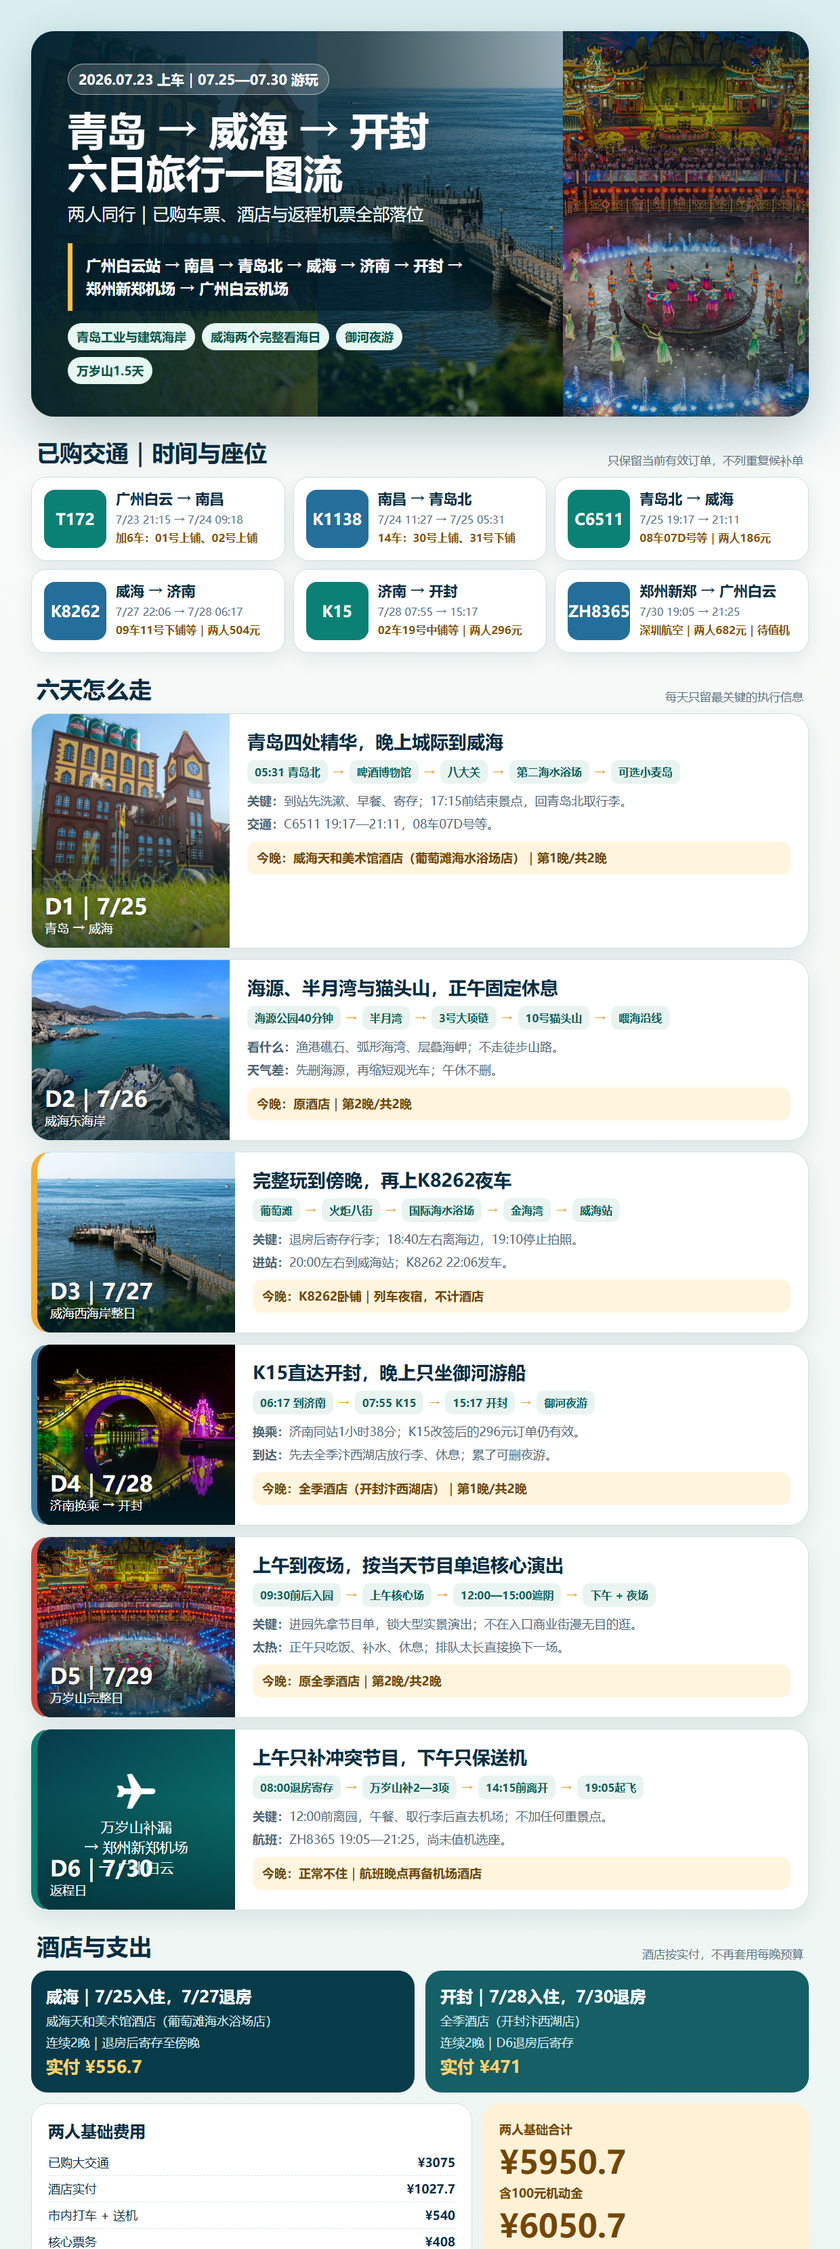
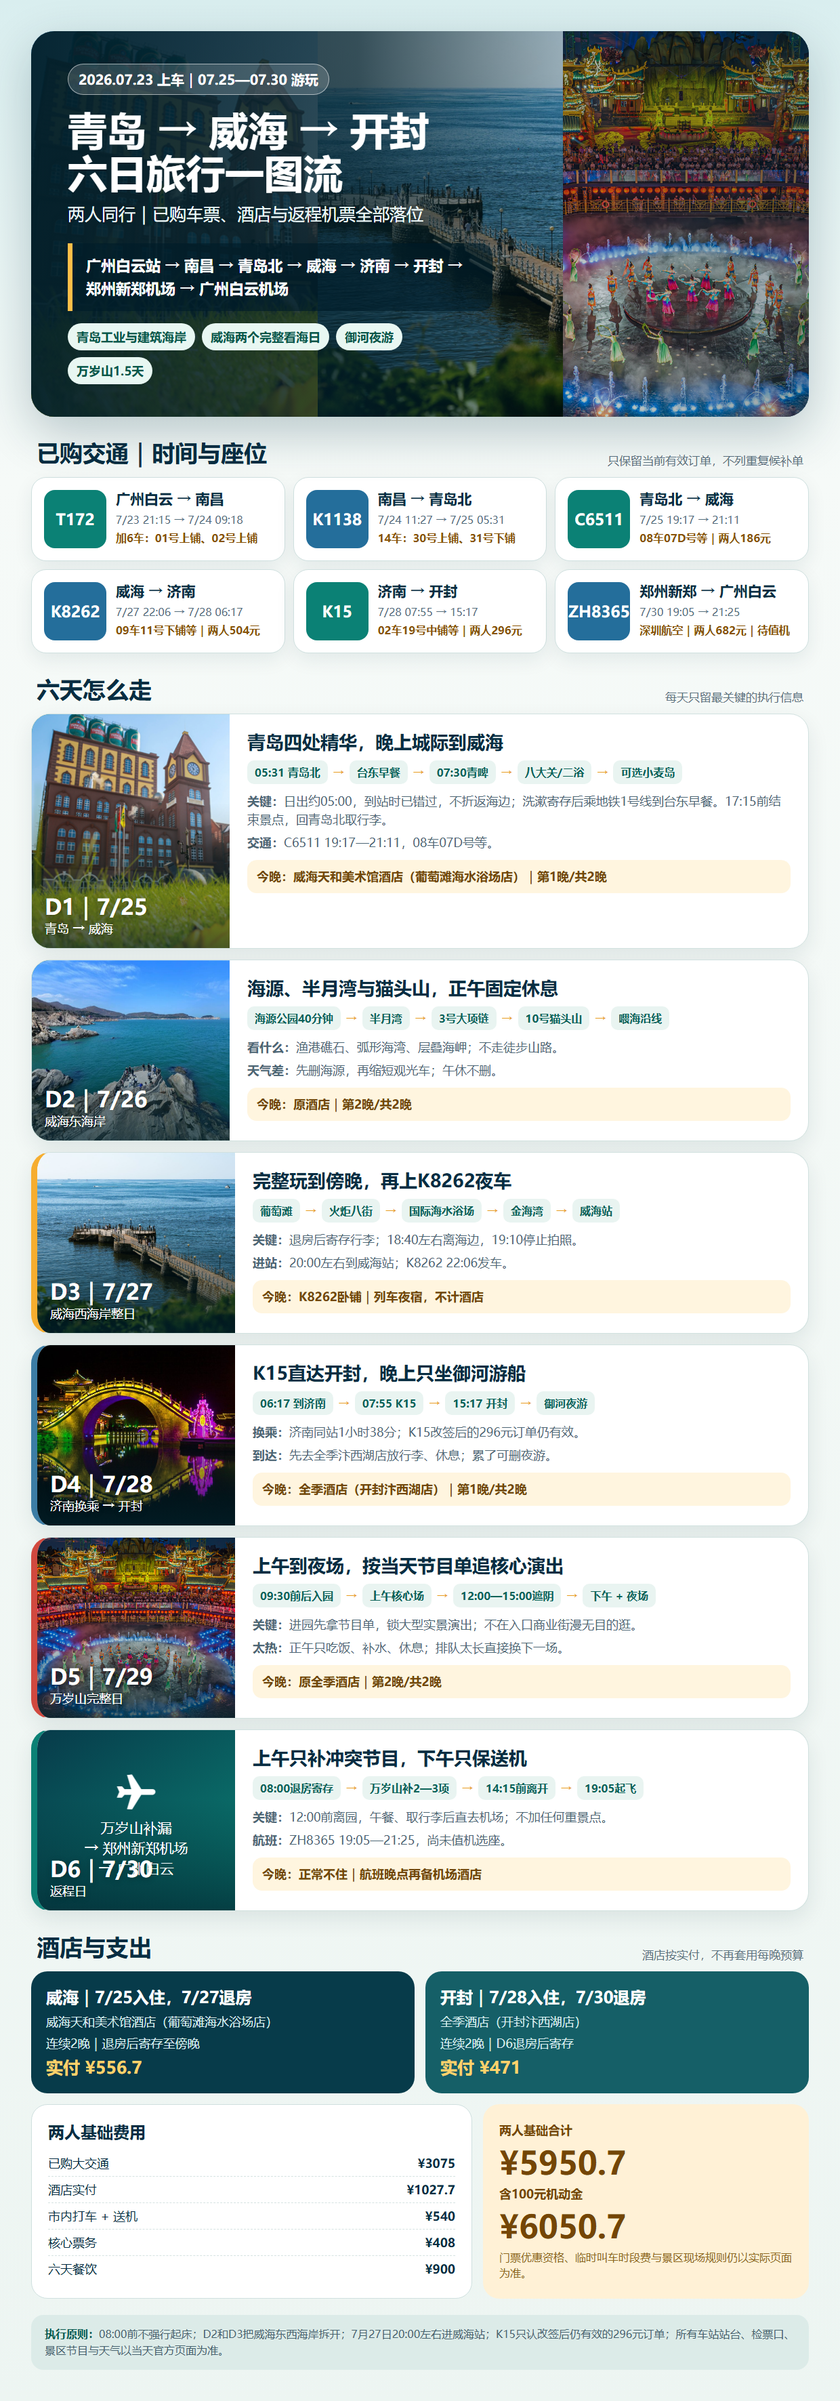
Refine Qingdao arrival and sunrise plan

diff --git a/routes/shandong-kaifeng.html b/routes/shandong-kaifeng.html
@@ -122,25 +122,27 @@
           <h3>D1｜青岛四处精华后，晚上转威海</h3>
           <div class="route-map-viewport" data-mobile-center=".54" tabindex="0" aria-label="青岛高德地图路线图，可左右滑动">
             <div class="amap-route-stage">
-              <img src="../assets/images/maps/qingdao-amap-official-base.png" alt="高德地图青岛北站、啤酒博物馆、八大关、第二海水浴场和小麦岛真实道路底图">
+              <img src="../assets/images/maps/qingdao-amap-official-base.png" alt="高德地图青岛北站、台东、啤酒博物馆、八大关、第二海水浴场和小麦岛真实道路底图">
               <svg class="amap-route-overlay" viewBox="0 0 1920 1080" role="img" aria-label="蓝线为上午青岛路线，橙线为下午和转场路线">
                 <defs>
                   <marker id="arrowQingdaoBlue" markerWidth="34" markerHeight="34" refX="31" refY="17" orient="auto" markerUnits="userSpaceOnUse" viewBox="0 0 34 34"><path d="M0,2 L34,17 L0,32 Z" fill="#196da6"/></marker>
                   <marker id="arrowQingdaoOrange" markerWidth="34" markerHeight="34" refX="31" refY="17" orient="auto" markerUnits="userSpaceOnUse" viewBox="0 0 34 34"><path d="M0,2 L34,17 L0,32 Z" fill="#ee9712"/></marker>
                 </defs>
-                <path class="route-halo" d="M1022 310 Q980 415 955 525 Q1010 555 1044 600 Q1048 614 1060 625"/>
-                <path class="route-line" style="stroke:#196da6" marker-end="url(#arrowQingdaoBlue)" d="M1022 310 Q980 415 955 525 Q1010 555 1044 600 Q1048 614 1060 625"/>
+                <path class="route-halo" d="M1022 310 Q990 410 972 474 Q960 500 955 525 Q1010 555 1044 600 Q1048 614 1060 625"/>
+                <path class="route-line" style="stroke:#196da6" marker-end="url(#arrowQingdaoBlue)" d="M1022 310 Q990 410 972 474 Q960 500 955 525 Q1010 555 1044 600 Q1048 614 1060 625"/>
                 <path class="route-halo" d="M1060 625 Q1100 620 1138 602"/>
                 <path class="route-line orange" marker-end="url(#arrowQingdaoOrange)" d="M1060 625 Q1100 620 1138 602"/>
                 <path class="route-halo dashed" d="M1138 602 Q1110 440 1022 310"/>
                 <path class="route-line orange dashed" marker-end="url(#arrowQingdaoOrange)" d="M1138 602 Q1110 440 1022 310"/>
                 <g class="map-pin hotel" transform="translate(1022 310)"><circle r="29"/><text y="8">01</text></g>
-                <g class="map-pin red" transform="translate(955 525)"><circle r="27"/><text y="8">02</text></g>
-                <g class="map-pin red" transform="translate(1044 600)"><circle r="27"/><text y="8">03</text></g>
-                <g class="map-pin red" transform="translate(1060 625)"><circle r="27"/><text y="8">04</text></g>
-                <g class="map-pin orange" transform="translate(1138 602)"><circle r="27"/><text y="8">05</text></g>
+                <g class="map-pin red" transform="translate(972 474)"><circle r="27"/><text y="8">02</text></g>
+                <g class="map-pin red" transform="translate(955 525)"><circle r="27"/><text y="8">03</text></g>
+                <g class="map-pin red" transform="translate(1044 600)"><circle r="27"/><text y="8">04</text></g>
+                <g class="map-pin red" transform="translate(1060 625)"><circle r="27"/><text y="8">05</text></g>
+                <g class="map-pin orange" transform="translate(1138 602)"><circle r="27"/><text y="8">06</text></g>
                 <g class="map-label-box hotel-label" transform="translate(1048 286)"><rect width="138" height="43" rx="12"/><text x="14" y="28">青岛北站</text></g>
-                <g class="map-label-box" transform="translate(780 488)"><rect width="172" height="43" rx="12"/><text x="14" y="28">啤酒博物馆</text></g>
+                <g class="map-label-box" transform="translate(1000 430)"><rect width="142" height="43" rx="12"/><text x="14" y="28">台东早餐</text></g>
+                <g class="map-label-box" transform="translate(770 500)"><rect width="172" height="43" rx="12"/><text x="14" y="28">啤酒博物馆</text></g>
                 <g class="map-label-box" transform="translate(880 635)"><rect width="132" height="43" rx="12"/><text x="14" y="28">八大关</text></g>
                 <g class="map-label-box" transform="translate(1000 670)"><rect width="184" height="43" rx="12"/><text x="14" y="28">第二海水浴场</text></g>
                 <g class="map-label-box" transform="translate(1165 570)"><rect width="148" height="43" rx="12"/><text x="14" y="28">小麦岛公园</text></g>
@@ -148,8 +150,9 @@
             </div>
           </div>
           <p class="map-swipe-hint">手机提示：地图区域可左右滑动；编号顺序就是当天执行顺序。</p>
-          <div class="map-schedule"><div class="map-schedule-row"><b>D1上午｜蓝色</b><span>01青岛北寄存 → 02啤酒博物馆 → 03八大关 → 04第二海水浴场</span></div><div class="map-schedule-row orange"><b>D1下午｜橙色</b><span>午饭与空调休息 → 05小麦岛 → 返回01青岛北取行李 → 城际到威海</span></div></div>
-          <figcaption>青岛底图于2026年7月17日从高德地图网页实取。路线可行，但D1为较累日：若到站晚于09:00，先删小麦岛；若晚于11:00，只保啤酒博物馆和八大关/二浴，晚间转威海不动。</figcaption>
+          <p><a class="copy-btn" href="../assets/images/maps/qingdao-route-flow-2026-07.png" target="_blank" rel="noopener">打开高清青岛地图流</a></p>
+          <div class="map-schedule"><div class="map-schedule-row"><b>D1上午｜蓝色</b><span>01青岛北洗漱寄存 → 地铁1号线 → 02台东早餐 → 步行 → 03啤酒博物馆 → 04八大关 → 05第二海水浴场</span></div><div class="map-schedule-row orange"><b>D1下午｜橙色</b><span>午饭与空调休息 → 06可选小麦岛 → 返回01青岛北取行李 → C6511到威海</span></div></div>
+          <figcaption>青岛底图于2026年7月17日从高德地图网页实取。7月25日日出约05:00，K1138于05:31才到青岛北，下车后无法看到完整日出，因此不折返海边；空档改为台东早餐，07:30按已购订单入青啤。若列车晚点，先删小麦岛，19:17的C6511不动。</figcaption>
         </figure>
 
         <figure class="card route-map-card">
@@ -255,7 +258,7 @@
     <section id="one-screen">
       <div class="section-title"><h2>30秒看懂｜今天去哪、今晚住哪</h2><p class="lead">疲劳指数：轻松 ⭐｜正常 ⭐⭐｜较累 ⭐⭐⭐。</p></div>
       <div class="day-overview" data-plan-only="a" hidden>
-        <article class="day-tile"><div class="overview-day-no">D1</div><div class="overview-copy"><strong>05:31到青岛 + 晚转威海</strong><p>啤酒博物馆 → 八大关/二浴 → 小麦岛 → C6511</p><div class="overview-meta"><span class="overview-stay">今晚：天和美术馆酒店｜第1晚/共2晚</span><span class="fatigue">较累 ⭐⭐⭐</span><span class="overview-key">关键：19:17青岛北发车</span></div></div></article>
+        <article class="day-tile"><div class="overview-day-no">D1</div><div class="overview-copy"><strong>05:31到青岛 + 晚转威海</strong><p>青岛北寄存 → 台东早餐 → 啤酒博物馆 → 八大关/二浴 → 可选小麦岛 → C6511</p><div class="overview-meta"><span class="overview-stay">今晚：天和美术馆酒店｜第1晚/共2晚</span><span class="fatigue">较累 ⭐⭐⭐</span><span class="overview-key">关键：日出05:00已错过，不追海边</span></div></div></article>
         <article class="day-tile"><div class="overview-day-no">D2</div><div class="overview-copy"><strong>威海东海岸</strong><p>海源 → 半月湾 → 大项链 → 猫头山 → “喂，海！”公园沿线</p><div class="overview-meta"><span class="overview-stay">今晚：天和美术馆酒店｜第2晚/共2晚</span><span class="fatigue">正常 ⭐⭐</span><span class="overview-key">关键：同一趟观光巴士，不额外折返</span></div></div></article>
         <article class="day-tile"><div class="overview-day-no">D3</div><div class="overview-copy"><strong>威海西海岸整日 + 夜车</strong><p>葡萄滩 → 火炬八街 → 国际海水浴场 → 金海湾 → K8262</p><div class="overview-meta"><span class="overview-stay">今晚：K8262软卧｜列车夜宿</span><span class="fatigue">较累 ⭐⭐⭐</span><span class="overview-key">关键：18:40离海边，22:06发车</span></div></div></article>
         <article class="day-tile"><div class="overview-day-no">D4</div><div class="overview-copy"><strong>济南换K15直达开封</strong><p>K8262 → K15 → 全季汴西湖 → 御河夜游</p><div class="overview-meta"><span class="overview-stay">今晚：全季汴西湖｜第1晚/共2晚</span><span class="fatigue">较累 ⭐⭐⭐</span><span class="overview-key">关键：同站换乘1小时38分</span></div></div></article>
@@ -284,7 +287,7 @@
     <section id="quick">
       <div class="section-title"><h2>旅行现场快捷执行卡</h2><p class="lead">路上先看这一组，想看细节再展开当天。</p></div>
       <div class="quick-grid" data-plan-only="a" hidden>
-        <article class="quick-card"><b>D1 青岛四处 + C6511｜较累 ⭐⭐⭐</b><p>05:31到青岛北；17:15前离开小麦岛，19:17乘C6511，21:11到威海。</p><a href="#sd-a-d1">查看 D1 详细版</a></article><article class="quick-card"><b>D2 威海环海线｜正常 ⭐⭐</b><p>海源后从半月湾坐巴士，重点停大项链和猫头山，顺看“喂，海！”公园沿线。</p><a href="#sd-a-d2">查看 D2 详细版</a></article><article class="quick-card"><b>D3 威海西海岸整日｜正常 ⭐⭐</b><p>白天完整看海，18:40左右离海边；取行李后20:00到威海站，22:06乘K8262。</p><a href="#sd-a-d3">查看 D3 详细版</a></article><article class="quick-card"><b>D4 K15直达开封 + 御河｜较累 ⭐⭐⭐</b><p>06:17到济南，07:55同站换K15，15:17到开封；入住全季后晚上只夜游。</p><a href="#sd-a-d4">查看 D4 详细版</a></article><article class="quick-card"><b>D5 万岁山完整日｜正常 ⭐⭐</b><p>按节目单锁定核心实景演出，正午遮阴，晚上看夜场。</p><a href="#sd-a-d5">查看 D5 详细版</a></article><article class="quick-card"><b>D6 补节目 + ZH8365｜轻松 ⭐</b><p>上午补2—3项，14:15前离开开封，19:05起飞、21:25到广州。</p><a href="#sd-a-d6">查看 D6 详细版</a></article>
+        <article class="quick-card"><b>D1 台东早餐 + 青岛四处 + C6511｜较累 ⭐⭐⭐</b><p>05:31到站时日出已过；洗漱寄存后乘地铁到台东早餐，07:30入青啤。17:15前离开小麦岛，19:17乘C6511。</p><a href="#sd-a-d1">查看 D1 详细版</a></article><article class="quick-card"><b>D2 威海环海线｜正常 ⭐⭐</b><p>海源后从半月湾坐巴士，重点停大项链和猫头山，顺看“喂，海！”公园沿线。</p><a href="#sd-a-d2">查看 D2 详细版</a></article><article class="quick-card"><b>D3 威海西海岸整日｜正常 ⭐⭐</b><p>白天完整看海，18:40左右离海边；取行李后20:00到威海站，22:06乘K8262。</p><a href="#sd-a-d3">查看 D3 详细版</a></article><article class="quick-card"><b>D4 K15直达开封 + 御河｜较累 ⭐⭐⭐</b><p>06:17到济南，07:55同站换K15，15:17到开封；入住全季后晚上只夜游。</p><a href="#sd-a-d4">查看 D4 详细版</a></article><article class="quick-card"><b>D5 万岁山完整日｜正常 ⭐⭐</b><p>按节目单锁定核心实景演出，正午遮阴，晚上看夜场。</p><a href="#sd-a-d5">查看 D5 详细版</a></article><article class="quick-card"><b>D6 补节目 + ZH8365｜轻松 ⭐</b><p>上午补2—3项，14:15前离开开封，19:05起飞、21:25到广州。</p><a href="#sd-a-d6">查看 D6 详细版</a></article>
       </div>
       <div class="quick-grid" data-plan-only="b" hidden>
         <article class="quick-card"><b>D1 睡前｜轻松 ⭐</b><p>确认青岛酒店和机场接驳，晚到就直接休息。</p><a href="#sd-d1">查看 D1 详细版</a></article><article class="quick-card"><b>D2 重点｜正常 ⭐⭐</b><p>啤酒博物馆、八大关、二浴和小麦岛，正午回酒店。</p><a href="#sd-d2">查看 D2 详细版</a></article><article class="quick-card"><b>D3 重点｜轻松 ⭐</b><p>08:00起床，选10:20后车次；抵威海先入住休息。</p><a href="#sd-d3">查看 D3 详细版</a></article><article class="quick-card"><b>D4 东海岸休整｜轻松 ⭐</b><p>海源与半月湾短线，午后回酒店休息，不重复看普通沙滩。</p><a href="#sd-d4">查看 D4 详细版</a></article><article class="quick-card"><b>D5 海岬晚霞｜正常 ⭐⭐</b><p>猫头山观光车后午休，傍晚金海湾看晚霞、欧乐坊吃饭。</p><a href="#sd-b-d5">查看 D5 详细版</a></article><article class="quick-card"><b>D6 转场｜正常 ⭐⭐</b><p>08:00起床，去威海北坐上午车，傍晚进万岁山夜场。</p><a href="#sd-b-d6">查看 D6 详细版</a></article><article class="quick-card"><b>D7 主景点｜正常 ⭐⭐</b><p>完整一天只围绕万岁山节目单执行。</p><a href="#sd-b-d7">查看 D7 详细版</a></article><article class="quick-card"><b>D8 返程｜轻松 ⭐</b><p>上午补节目，中午收手，下午送机。</p><a href="#sd-b-d8">查看 D8 详细版</a></article>
@@ -363,7 +366,8 @@
           <div class="day-inner">
             <div class="mini"><div><span>今日一句话</span><b>青岛精华集中完成，晚上按已购C6511到威海。</b></div><div><span>今晚住</span><b>威海天和美术馆酒店｜第1晚/共2晚</b></div><div><span>今日重点</span><b>啤酒博物馆 + 八大关/二浴</b></div><div><span>可删</span><b>连续卧铺后困倦就删小麦岛</b></div></div>
             <div class="timeline">
-              <div class="time-row"><time class="time">05:31—07:30</time><div><h4>K1138抵青岛北 → 洗漱早餐 → 寄存</h4><p>先在车站完成洗漱、早餐和正规寄存；拍好凭证，轻装出发。</p><p class="keyword"><span>导航：青岛北站 行李寄存</span><button class="copy-btn" data-copy="青岛北站 行李寄存">复制</button></p></div></div>
+              <div class="time-row"><time class="time">05:31—06:20</time><div><h4>K1138抵青岛北 → 洗漱 → 正规寄存</h4><p>7月25日日出约05:00，到站时已经错过完整日出，不临时打车折返海边。青岛当天没有酒店订单，大件行李留在青岛北站，拍好寄存凭证后轻装出发。</p><p class="keyword"><span>导航：青岛北站 行李寄存</span><button class="copy-btn" data-copy="青岛北站 行李寄存">复制</button></p></div></div>
+              <div class="time-row"><time class="time">06:20—07:25</time><div><h4>地铁1号线到台东 → 早餐 → 步行去青啤</h4><p>青岛北站乘地铁1号线到台东，选地铁口附近已经营业的粥粉面、包子或便利店早餐；07:05左右结束，按官方步行方向前往博物馆，07:20—07:25到门口核验二维码。</p><p class="keyword"><span>导航：台东地铁站 A口 → 青岛啤酒博物馆</span><button class="copy-btn" data-copy="台东地铁站 A口 青岛啤酒博物馆">复制</button></p></div></div>
               <div class="time-row"><time class="time">07:30—10:15</time><div><h4>青岛啤酒博物馆</h4><p>走A+B馆基础线，看百年厂房、酿造设备和生产线；双人票已购实付120元，按订单时段和二维码入馆。</p></div></div>
               <div class="time-row"><time class="time">10:30—12:20</time><div><h4>八大关 → 第二海水浴场</h4><p>从居庸关路看林荫与老建筑外观，再到二浴看礁石、花石楼海景和开放状态下的海中堤坝；不越围挡、不冒险钻洞。</p></div></div>
               <div class="time-row"><time class="time">12:20—15:40</time><div><h4>午饭 + 空调休息</h4><p>连续联程后固定休息；仍困就删下午小麦岛。</p></div></div>
@@ -371,7 +375,7 @@
               <div class="time-row"><time class="time">17:15—19:17</time><div><h4>回青岛北取行李 → C6511</h4><p>已购C6511：19:17青岛北发车，08车07D号等；同行席位以订单详情为准。预留取件、安检和候车时间。</p></div></div>
               <div class="time-row"><time class="time">21:11—22:00</time><div><h4>到威海 → 酒店入住</h4><p>打车去威海天和美术馆酒店（葡萄滩海水浴场店），不再加夜景。</p><p class="keyword"><span>导航：威海天和美术馆酒店 葡萄滩海水浴场店</span><button class="copy-btn" data-copy="威海天和美术馆酒店 葡萄滩海水浴场店">复制</button></p></div></div>
             </div>
-            <div class="notice good"><b>D1用车账｜约70公里、210元：</b>青岛市内约61公里183元；威海站到酒店约9公里27元，均按3元/公里列账。</div>
+            <div class="notice good"><b>D1交通预算仍按210元封顶：</b>青岛北→台东改乘地铁，理论上会比原全程打车更省；为防暑期叫车、绕行和威海晚间接驳涨价，总账暂不提前下调，实际少花部分直接回收。</div>
             <div class="stay-grid"><div><b>今晚住哪里</b>威海天和美术馆酒店，第1晚/共2晚；25日入住、27日退房。</div><div><b>明天怎么走</b>08:00后起床，轻装去海源；到半月湾换环海巴士，同线看大项链、猫头山和喂海。</div></div>
           </div>
         </details>
@@ -766,6 +770,7 @@
         <li><a href="https://www.qiantaohotel.com/homeweb/NewHomeWeb/M10095514.html" target="_blank" rel="noopener">威海天和美术馆酒店资料</a>：核对已订酒店地址为环翠区统一北路80号，路线图不再按威高广场起点绘制。</li>
         <li data-plan-only="a" hidden><a href="https://hotels.ctrip.com/hotel/71961179.html" target="_blank" rel="noopener">全季酒店（开封汴西湖店）资料</a>：核对酒店位于集英街与晋安路交叉口文锦大厦1号；开封路线图按该实际点位绘制。</li>
         <li><a href="https://www.tsingtaomuseum.com/articleTitleCus/1790371205849559041?viewName=newCanguanDetail" target="_blank" rel="noopener">青岛啤酒博物馆官方参观须知</a>、<a href="https://www.tsingtaomuseum.com/articleTitleCus/1823961726126940161?viewName=newPiaowu2Detail" target="_blank" rel="noopener">官方基础票说明</a>：核对暑期开放、预约入口、成人60元与学生50元基础票；最终以官方购票页为准。</li>
+        <li data-plan-only="a" hidden><a href="https://www.timeanddate.com/sun/china/tsingtao?month=7" target="_blank" rel="noopener">青岛2026年7月日出日落表</a>：7月25日日出约05:00，早于K1138到达青岛北的05:31，因此不安排下车后追日出；<a href="https://www.tsingtaomuseum.com/articleTitleCus/1790373016308297729?viewName=newJiaotongDetail" target="_blank" rel="noopener">青啤博物馆官方交通说明</a>用于核对台东站步行进馆路线。</li>
         <li><a href="https://m.qdxin.cn/detail/388535.html" target="_blank" rel="noopener">青岛第二海水浴场2026开放信息</a>：公开参考7月1日至9月25日、09:00—17:30；洞口、礁石和堤坝仍以现场围挡、潮汐和救生员要求为准。</li>
         <li><a href="https://m.ctrip.com/html5/trains/qingdaobei-weihaibei-d/" target="_blank" rel="noopener">青岛北—威海车次查询参考</a>：C6511当前参考19:17—21:11、二等座93元/人；最终只认7月25日12306付款订单。</li>
         <li><a href="https://www.weihai.gov.cn/art/2026/5/3/art_58817_6330665.html" target="_blank" rel="noopener">威海市政府山海点位指南</a>：猫头山、火炬八街、国际海水浴场、悦海公园和半月湾的实景与特色参考。</li>

diff --git a/tools/posters/shandong-trip-onepage.html b/tools/posters/shandong-trip-onepage.html
@@ -114,8 +114,8 @@
         <div class="day-photo"><img src="../../assets/images/shandong-trip-poster/qingdao-beer.jpg" alt="青岛啤酒博物馆"><div class="day-label"><b>D1｜7/25</b><span>青岛 → 威海</span></div></div>
         <div class="day-body">
           <h3>青岛四处精华，晚上城际到威海</h3>
-          <div class="timeline"><span>05:31 青岛北</span><i>→</i><span>啤酒博物馆</span><i>→</i><span>八大关</span><i>→</i><span>第二海水浴场</span><i>→</i><span>可选小麦岛</span></div>
-          <p><b>关键：</b>到站先洗漱、早餐、寄存；17:15前结束景点，回青岛北取行李。</p>
+          <div class="timeline"><span>05:31 青岛北</span><i>→</i><span>台东早餐</span><i>→</i><span>07:30青啤</span><i>→</i><span>八大关/二浴</span><i>→</i><span>可选小麦岛</span></div>
+          <p><b>关键：</b>日出约05:00，到站时已错过，不折返海边；洗漱寄存后乘地铁1号线到台东早餐。17:15前结束景点，回青岛北取行李。</p>
           <p><b>交通：</b>C6511 19:17—21:11，08车07D号等。</p>
           <p class="stay">今晚：威海天和美术馆酒店（葡萄滩海水浴场店）｜第1晚/共2晚</p>
         </div>
